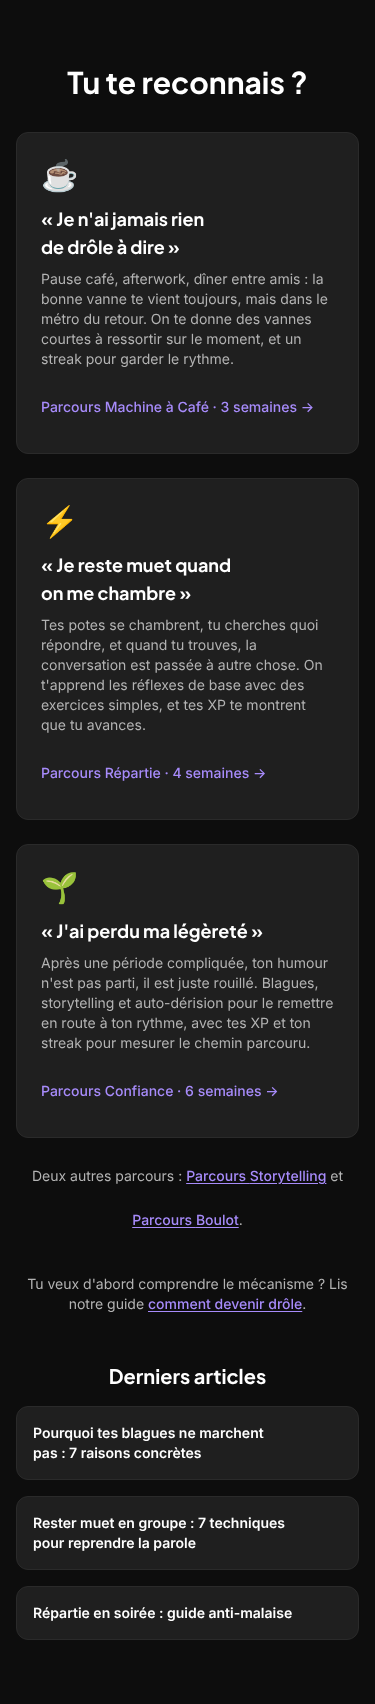
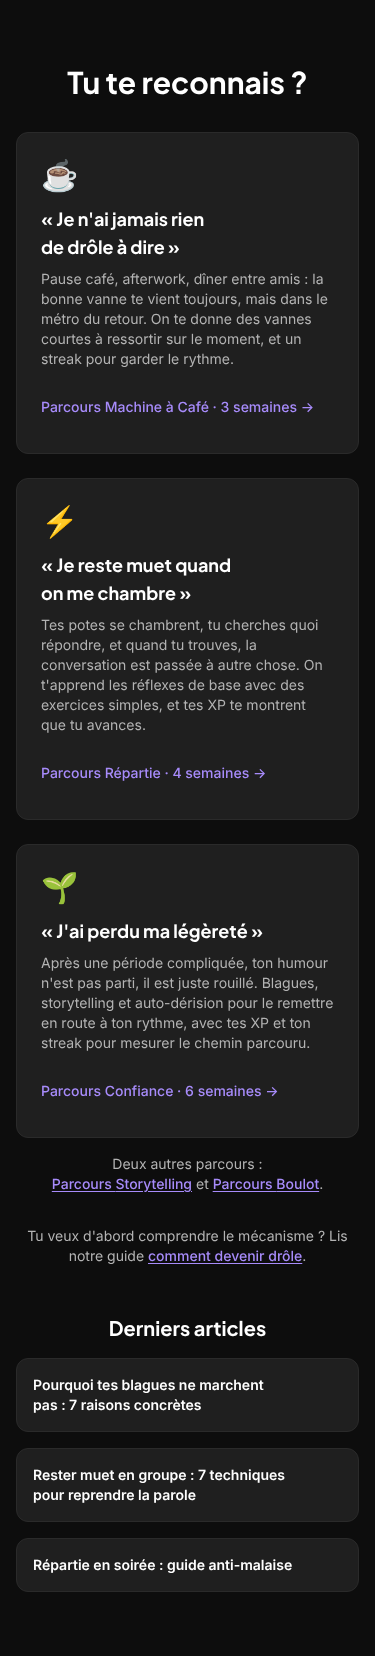
s20 : accueil S3 tour 3 (intro seule sur mobile, zones 44 px sans recouvrement, semaines insécables)
Claude-Session: https://claude.ai/code/session_019BVDUNMGPbMjhN6J3xXEvu

diff --git a/apps/web/src/app/(dashboard)/page.tsx b/apps/web/src/app/(dashboard)/page.tsx
@@ -113,7 +113,7 @@ export default async function HomePage() {
               courtes à ressortir sur le moment, et un streak pour garder le rythme.
             </p>
             <Link href="/parcours/machine-a-cafe" className="mt-4 inline-flex min-h-[44px] items-center text-sm font-medium text-accent-link hover:underline">
-              Parcours Machine à Café · {parcoursWeeks("machine-a-cafe")} semaines →
+              Parcours Machine à Café · {parcoursWeeks("machine-a-cafe")}&nbsp;semaines →
             </Link>
           </div>
 
@@ -130,7 +130,7 @@ export default async function HomePage() {
               montrent que tu avances.
             </p>
             <Link href="/parcours/repartie" className="mt-4 inline-flex min-h-[44px] items-center text-sm font-medium text-accent-link hover:underline">
-              Parcours Répartie · {parcoursWeeks("repartie")} semaines →
+              Parcours Répartie · {parcoursWeeks("repartie")}&nbsp;semaines →
             </Link>
           </div>
 
@@ -147,7 +147,7 @@ export default async function HomePage() {
               mesurer le chemin parcouru.
             </p>
             <Link href="/parcours/confiance" className="mt-4 inline-flex min-h-[44px] items-center text-sm font-medium text-accent-link hover:underline">
-              Parcours Confiance · {parcoursWeeks("confiance")} semaines →
+              Parcours Confiance · {parcoursWeeks("confiance")}&nbsp;semaines →
             </Link>
           </div>
         </div>
@@ -158,7 +158,7 @@ export default async function HomePage() {
         {/* Lien vers le pilier SEO (docs/seo/pilier-non-indexe-s15.md, L2) */}
         <p className="mt-8 text-center text-sm text-text-secondary">
           Tu veux d&apos;abord comprendre le mécanisme&nbsp;? Lis notre guide{" "}
-          <Link href="/blog/comment-devenir-drole" className="font-medium text-accent-link underline underline-offset-2">
+          <Link href="/blog/comment-devenir-drole" className="-my-3 inline-block py-3 font-medium text-accent-link underline underline-offset-2">
             comment devenir drôle
           </Link>
           .

diff --git a/apps/web/src/__tests__/feature/accueil-maillage-s3-s20.test.tsx b/apps/web/src/__tests__/feature/accueil-maillage-s3-s20.test.tsx
@@ -103,7 +103,9 @@ describe("S3a : autres parcours sous les cartes personas", () => {
       "/parcours/storytelling",
       "/parcours/boulot",
     ]);
-    for (const l of liens) expect(l).toHaveClass("inline-flex", "min-h-[44px]", "items-center", "whitespace-nowrap");
+    for (const l of liens) expect(l).toHaveClass("inline-block", "py-3", "-my-3", "whitespace-nowrap");
+    expect(container.querySelector("p > span")).toHaveClass("max-sm:block");
+    expect(container.querySelector("p > span")?.textContent).toBe(`Deux autres parcours${NBSP}:`);
   });
 
   it("3 parcours restants : « Trois autres parcours : X, Y et Z. »", () => {
@@ -214,6 +216,11 @@ describe("Accueil : placement et revalidation", () => {
     const ligne = within(section).getByText(/autres? parcours/).closest("p") as HTMLElement;
     const pilier = within(section).getByRole("link", { name: "comment devenir drôle" }).closest("p");
     expect(ligne.nextElementSibling).toBe(pilier);
+    // Tour 2 : zone de 44 px sur le lien du pilier, « N semaines » insécable dans les 3 cartes.
+    expect(within(section).getByRole("link", { name: "comment devenir drôle" })).toHaveClass("inline-block", "py-3", "-my-3");
+    for (const nom of ["Machine à Café", "Répartie", "Confiance"]) {
+      expect(within(section).getByRole("link", { name: new RegExp(`^Parcours ${nom} ·`) }).textContent).toMatch(new RegExp(`\\d${NBSP}semaines`));
+    }
     const bloc = screen.getByRole("region", { name: "Derniers articles" });
     expect(section.nextElementSibling).toBe(bloc);
     expect(within(bloc).getAllByRole("link")).toHaveLength(3);

diff --git a/apps/web/src/components/home/autres-parcours.tsx b/apps/web/src/components/home/autres-parcours.tsx
@@ -41,13 +41,14 @@ export function AutresParcours({
 
   return (
     <p className="mt-4 text-center text-sm text-text-secondary">
-      {autresParcoursIntro(autres.length)}&nbsp;:{" "}
+      {/* Sous 640 px : intro seule sur sa ligne, les liens côte à côte dessous (relecture tour 2). */}
+      <span className="max-sm:block">{autresParcoursIntro(autres.length)}&nbsp;:</span>{" "}
       {autres.map((p, i) => (
         <Fragment key={p.href}>
           {i > 0 && (i === autres.length - 1 ? " et " : ", ")}
           <Link
             href={p.href}
-            className="inline-flex min-h-[44px] items-center whitespace-nowrap font-medium text-accent-link underline underline-offset-2"
+            className="-my-3 inline-block whitespace-nowrap py-3 font-medium text-accent-link underline underline-offset-2"
           >
             Parcours {p.name}
           </Link>
